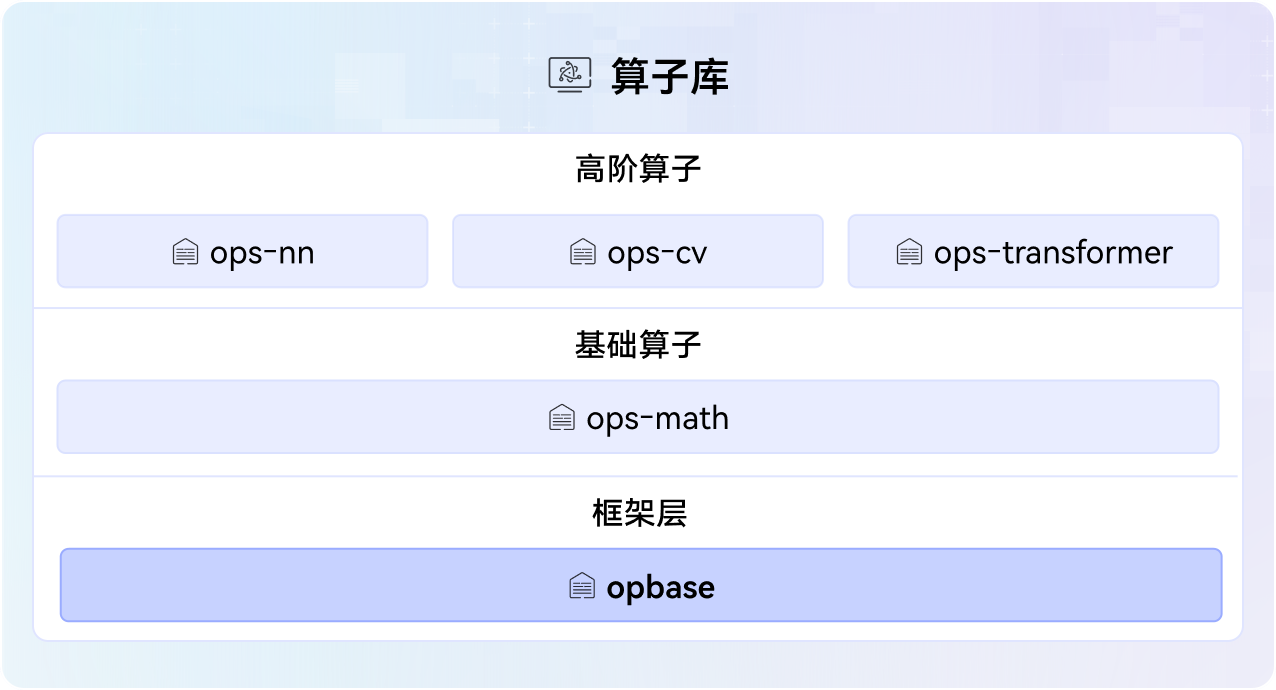
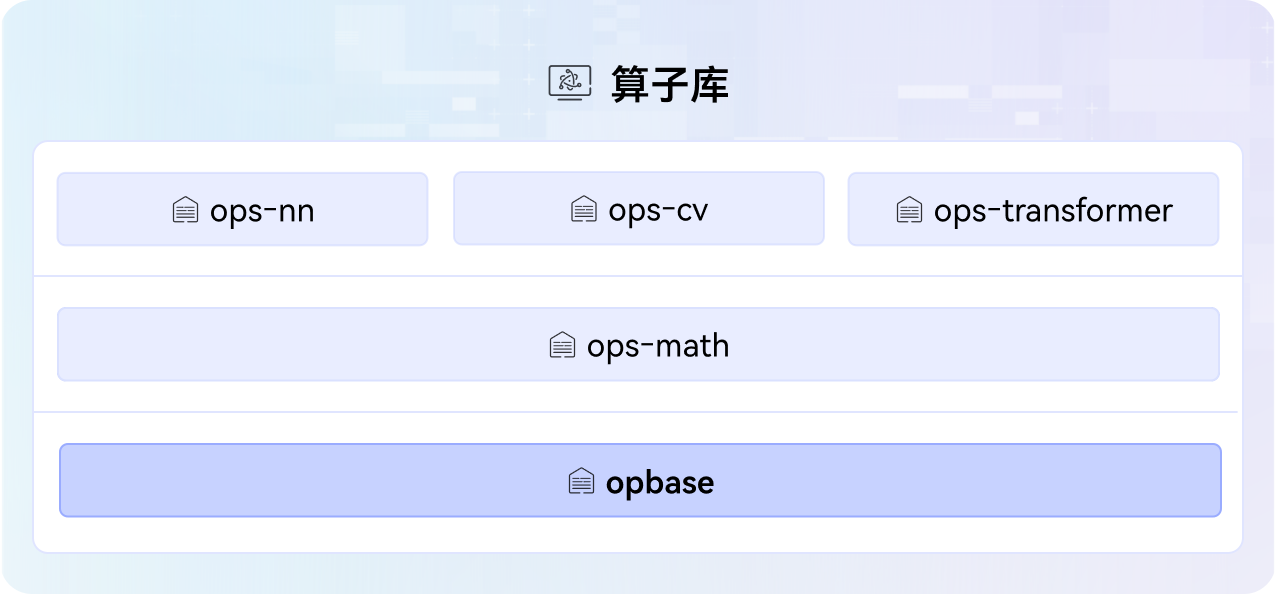
update md&png
# message auto-generated for no-merge-commit merge:
!13 merge master into master

update md&png

Created-by: zhaozi3
Commit-by: zhaozi3
Merged-by: ascend-robot
Description: ## 描述
<!--在这里详细描述你的改动，包括改动的原因和所采取的方法。-->
1.新增项目目录介绍
2.架构图刷新
## 关联的Issue
<!-- 如果这个PR是为了解决特定的Issue，请在这里提供Issue链接。例如：关联Issue #123-->
<!-- 如果这个PR是为了解决特定的问题单，请在这里描述问题单单号。-->

## 测试
<!--描述进行了哪些测试来验证你的改动。包括但不限于二级冒烟、算子泛化等。-->

## 文档更新
<!--如果这个PR包含文档的更新，请在这里指出。例如：更新了README.md文件。-->

## 类型标签
<!--  [x] 表示选中 -->
- [ ] Bug修复
- [ ] 新特性
- [ ] 性能优化
- [x] 文档更新
- [ ] 其他，请描述：

See merge request: cann/opbase!13

diff --git a/docs/context/dir_structure.md b/docs/context/dir_structure.md
@@ -1,0 +1,50 @@
+# 项目目录
+
+详细目录层级介绍如下：
+
+```
+├── aicpu_common                                        # aicpu公共函数实现
+├── cmake                                               # 项目工程编译目录
+│   ├── third_party                                     # 项目依赖的第三方相关编译配置目录
+│   ├── aarch64-hcc-toolchain.cmake                     # 项目工程编译工具链配置文件
+│   ├── config.cmake                                    # 项目工程编译选项配置文件    
+│   ├── func.cmake                                      # 项目工程编译protobuf文件
+│   ├── intf_pub_linux.cmake                            # 项目工程编译宏、链接库等相关配置文件
+│   ├── makeself.cmake                                  # 项目工程自定义makeself打包文件
+│   ├── package.cmake                                   # 项目工程编译打包安装相关配置文件
+│   ├── Third_Party_Open_Source_Software_List.yaml      # 项目依赖的第三方软件库清单
+│   └── variables.cmake                                 # 项目工程编译参数配置文件
+├── docs                                                # 项目相关文档目录
+├── include                                             # 项目公共头文件      
+│   ├── aicpu_common                                    # aicpu公共函数头文件        
+│   └── op_common                                       # op_common源码头文件（即将废弃）
+├── pkg_inc                                             # 项目包间接口头文件目录           
+│   └── op_common                                       # op_common源码头文件
+│       ├── atvoss                                      # atvoss接口头文件，包括broadcast、elewise等
+│       ├── log                                         # log相关接口头文件
+│       ├── op_host                                     # host侧接口头文件
+│       └── op_kernel                                   # kernel侧接口头文件
+├── requirements.txt                                    # 项目依赖的第三方软件包
+├── scripts                                             # 项目脚本文件存放目录
+├── src
+│   └── op_common                                       # op_common源码实现
+│       ├── atvoss                                      # atvoss接口源码实现
+│       ├── log                                         # log相关接口源码实现
+│       └── op_host                                     # host侧接口源码实现
+├── tests                                               # 测试工程目录
+│   ├── CMakeLists.txt
+│   └── ut                                              # UT用例工程
+│       ├── CMakeLists.txt                              # UT工程的cmakelist脚本
+│       └── op_common                                   # op_common测试工程
+├── build.sh                                            # 项目工程编译脚本
+├── CMakeLists.txt                                      # 项目工程cmakelist入口
+├── CONTRIBUTING.md                                     # 项目贡献指南文件
+├── install_deps.sh                                     # 项目安装依赖包脚本
+├── LICENSE                                             # 项目开源许可证信息
+├── OAT.xml                                             # 配置脚本，代码仓工具使用，用于检查License是否规范
+├── README.md                                           # 项目工程总介绍文档
+├── requirements.txt                                    # 项目的第三方依赖包
+├── SECURITY.md                                         # 项目安全声明文件
+└── version.info                                        # 项目版本信息
+```
+

diff --git a/README.md b/README.md
@@ -12,7 +12,7 @@ opbase是[CANN](https://hiascend.com/software/cann) （Compute Architecture for 
 
 ## 🔍目录结构
 
-关键目录如下：
+关键目录如下，详细目录介绍参见[项目目录](./docs/context/dir_structure.md)。
 
 ```
 ├── aicpu_common                   # aicpu公共函数实现
